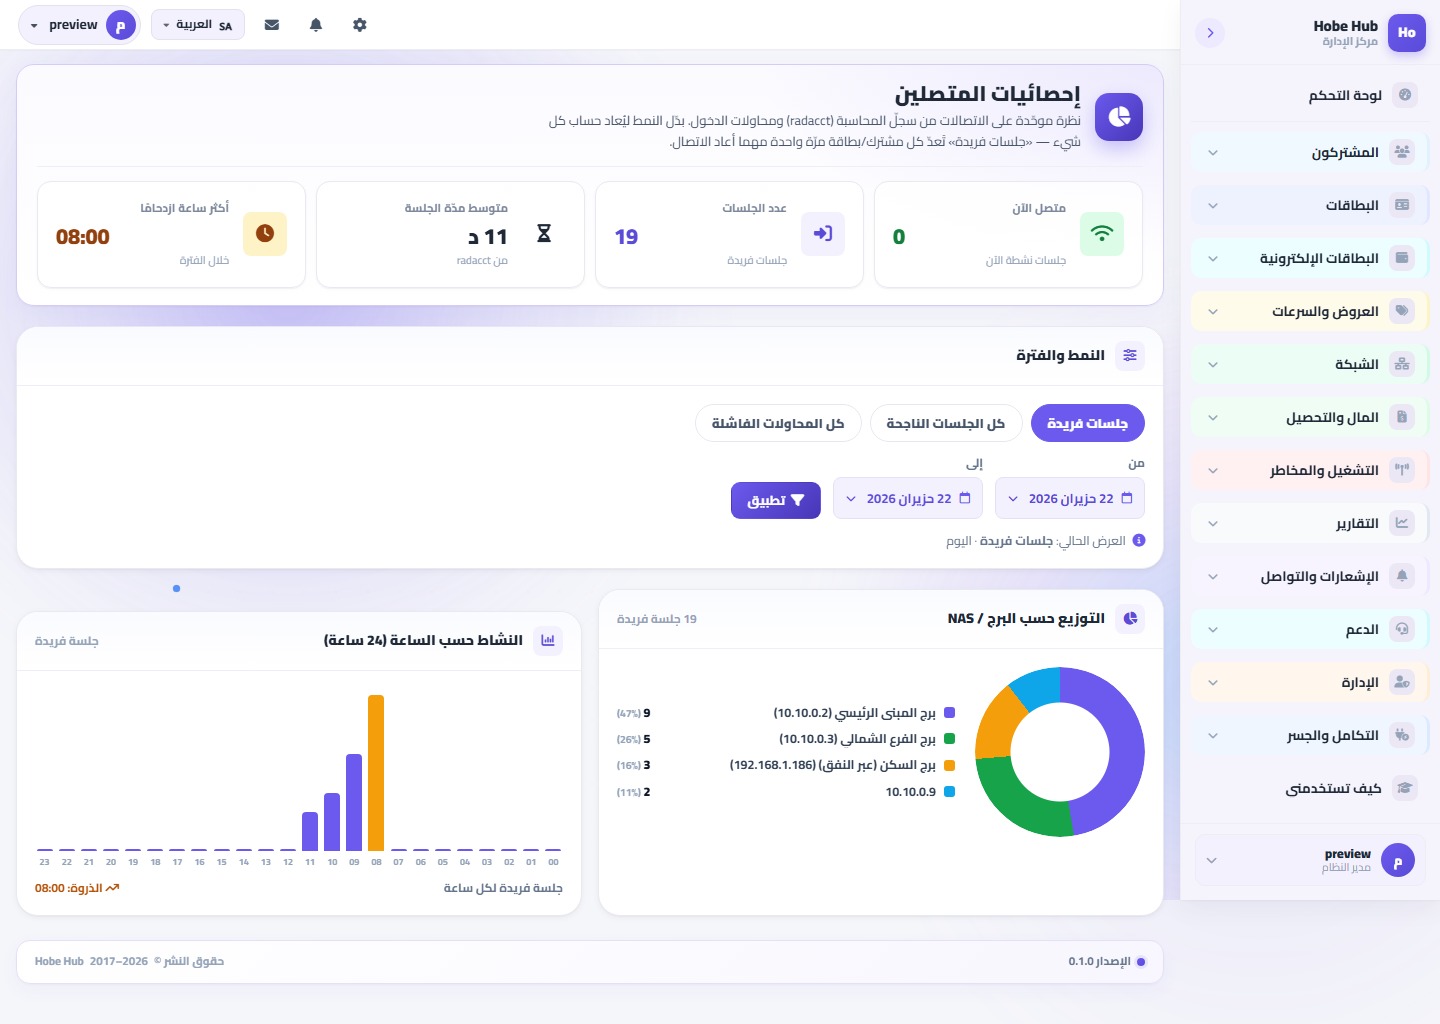
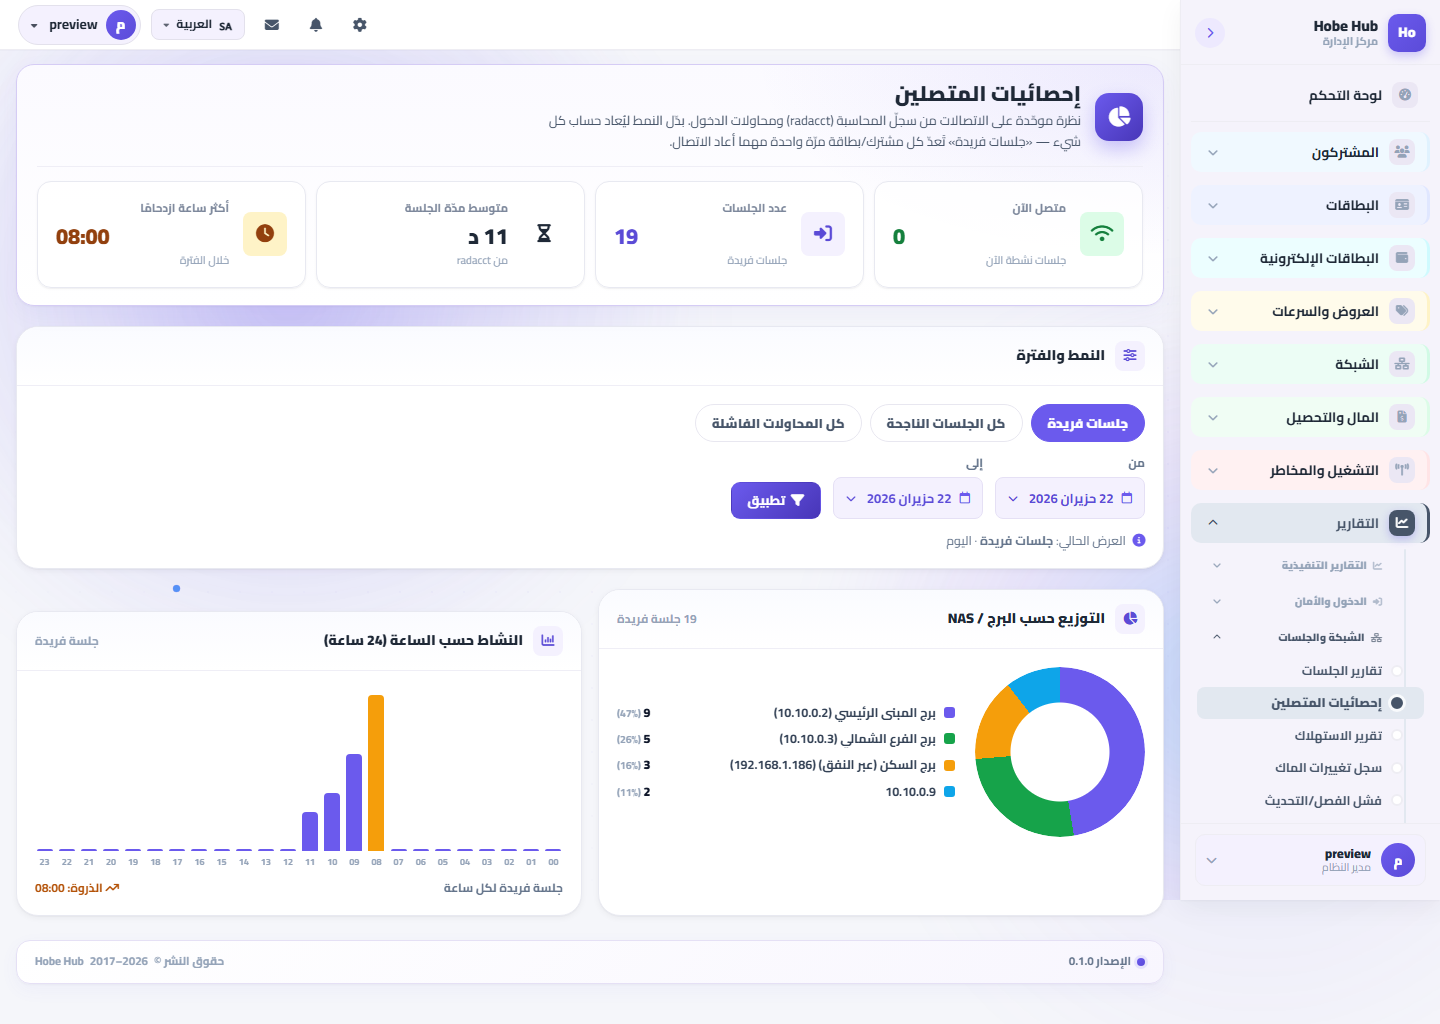
chore(sidebar): نقل «إحصائيات المتصلين» و«تقرير الاستهلاك» إلى مجموعة «التقارير»
كلاهما تقريران فينتميان لـ«التقارير» لا «المشتركون».

في app/templates/admin/_sidebar.html:
• أُزيل connected_stats و rep_subscriber_consumption من _eps_subs (صلاحيات
  مجموعة المشتركين) وأُضيفا إلى _eps_reports (صلاحيات التقارير) فيبقى
  ظهور/طيّ كل قسم صحيحًا ولا يصير أيٌّ منهما فارغًا.
• نُقل سطرا sub_item إلى عائلة «الشبكة والجلسات» الفرعية ضمن التقارير
  (بجوار «تقارير الجلسات»).
• أُضيف m_reports_connected_stats (مطابقة /connected-stats) وأُدرج هو
  وm_subscriber_usage في sec_reports_active (تفعيل القسم) وfam_net_active
  (فتح العائلة تلقائيًا) فيعمل التظليل النشط على صفحتيهما.

اختبارات: حُدّث test_sidebar (صار يتحقّق أنهما في _eps_reports لا _eps_subs)
+ render-testان: الرابطان يُرسَمان تحت قسم «التقارير» لا «المشتركون» مع
is-active على صفحة كلٍّ (super-admin). 24 تخضرّ. معاينة سطح المكتب +
تكبير الشريط الجانبي في preview/connected_stats.

Changed region(s): [[0.8125, 0.4688, 1.0, 0.8125]]

diff --git a/app/templates/admin/_sidebar.html b/app/templates/admin/_sidebar.html
@@ -311,6 +311,7 @@
 {%- set m_reports_distributors = (path == url_for('radius.reports_distributors')) -%}
 {%- set m_reports_archive = (path == url_for('radius.reports_archive')) -%}
 {%- set m_reports_sessions = (path == url_for('radius.rep_sessions')) -%}
+{%- set m_reports_connected_stats = (endpoint_exists is defined and endpoint_exists('radius.connected_stats') and ('/connected-stats' in path)) -%}
 {%- set m_reports_failed_logins = (path == url_for('radius.rep_failed_logins')) -%}
 {%- set m_reports_coa_failures = (path == url_for('radius.rep_coa_failures')) -%}
 {%- set m_reports_api_messages = (path == url_for('radius.rep_api_messages')) -%}
@@ -371,7 +372,8 @@
                                or m_reports_login_states or m_reports_login_status or m_reports_manager_login
                                or m_reports_mac_history or m_reports_profile_changes or m_reports_manager_events
                                or m_reports_user_events or m_reports_speed_failures or m_reports_used_cards
-                               or m_reports_balance_moves or m_reports_cash_tx -%}
+                               or m_reports_balance_moves or m_reports_cash_tx
+                               or m_reports_connected_stats or m_subscriber_usage -%}
 {%- set sec_support_active  = m_tickets or m_services or m_customer_portals -%}
 {%- set sec_admin_active    = m_admins or m_admin_profile or m_admin_pricing or m_distributors or m_roles or m_recycle or m_backups
                                 or m_settings or m_tenants
@@ -421,7 +423,7 @@
     </a>
 
     {# ───────── المشتركون ───────── #}
-    {%- set _eps_subs = ['subscribers_overview','subscribers_list','users_new','subscriber_groups_list','online_list','connected_stats','rep_subscriber_consumption','rep_login_states_subscribers'] -%}
+    {%- set _eps_subs = ['subscribers_overview','subscribers_list','users_new','subscriber_groups_list','online_list','rep_login_states_subscribers'] -%}
     {% if section_can(_eps_subs)|trim %}
     <div class="hb-side-section{% if sec_subs_active %} is-open has-active{% endif %}"
          data-hb-section="subscribers" data-hb-tone="sky">
@@ -437,8 +439,6 @@
         {{ sub_item('radius.users_new',   _('إضافة مشترك'),     m_users_new) }}
         {{ sub_item('radius.subscriber_groups_list', _('مجموعات المشتركين'), m_subscriber_groups) }}
         {{ sub_item('radius.online_list', _('المشتركون المتصلون'), m_online_users) }}
-        {{ sub_item('radius.connected_stats', _('إحصائيات المتصلين'), '/connected-stats' in path) }}
-        {{ sub_item('radius.rep_subscriber_consumption', _('تقرير الاستهلاك'), m_subscriber_usage) }}
       </div></div>
     </div>
     {% elif _ui_mode == 'freeze' %}{{ frozen_section(_('المشتركون'), 'users') }}{% endif %}
@@ -757,7 +757,7 @@
     {# ───────── التقارير ─────────
        كل بنود القسم محروسة خادميًا بـ reports.view (و finance_reports
        بـ reports.finance) — perm_for_endpoint يحلّها من _PERM_GUARDED. #}
-    {%- set _eps_reports = ['reports_home','finance_reports'] -%}
+    {%- set _eps_reports = ['reports_home','finance_reports','connected_stats','rep_subscriber_consumption'] -%}
     {% if section_can(_eps_reports)|trim %}
     <div class="hb-side-section{% if sec_reports_active %} is-open has-active{% endif %}"
          data-hb-section="reports" data-hb-tone="slate">
@@ -782,7 +782,8 @@
         {%- set fam_auth_active = m_reports_login_states or m_reports_failed_logins
                                     or m_reports_login_status or m_reports_manager_login -%}
         {%- set fam_net_active  = m_reports_sessions or m_reports_mac_history
-                                    or m_reports_coa_failures or m_reports_speed_failures -%}
+                                    or m_reports_coa_failures or m_reports_speed_failures
+                                    or m_reports_connected_stats or m_subscriber_usage -%}
         {%- set fam_act_active  = m_reports_manager_events or m_reports_user_events
                                     or m_reports_profile_changes or m_reports_api_messages -%}
         {%- set fam_fin_active  = m_reports_used_cards or m_reports_cash_tx
@@ -832,6 +833,8 @@
           </button>
           <div class="hb-side-subgroup-body"><div class="hb-side-subgroup-body-inner">
             {{ sub_item('radius.rep_sessions',       _('تقارير الجلسات'),     m_reports_sessions) }}
+            {{ sub_item('radius.connected_stats',    _('إحصائيات المتصلين'),  m_reports_connected_stats) }}
+            {{ sub_item('radius.rep_subscriber_consumption', _('تقرير الاستهلاك'), m_subscriber_usage) }}
             {{ sub_item('radius.rep_mac_history',    _('سجل تغييرات الماك'),  m_reports_mac_history) }}
             {{ sub_item('radius.rep_coa_failures',   _('فشل الفصل/التحديث'),  m_reports_coa_failures) }}
             {{ sub_item('radius.rep_speed_failures', _('فشل تحديث السرعة'),   m_reports_speed_failures) }}

diff --git a/tests/test_connected_stats.py b/tests/test_connected_stats.py
@@ -200,20 +200,65 @@ def test_default_mode_is_unique(app):
         assert cs.stats(1)["mode"] == "unique"
 
 
-def test_sidebar_link_present_in_subscribers_group(app):
+def test_sidebar_link_moved_to_reports_group(app):
+    """نُقل «إحصائيات المتصلين» و«تقرير الاستهلاك» من «المشتركون» إلى «التقارير»:
+    البندان يُصرَّحان ضمن _eps_reports لا _eps_subs، والروابط تُرسَم تحت التقارير."""
     import os.path as p
     here = p.dirname(p.dirname(__file__))
     sb = open(p.join(here, "app", "templates", "admin", "_sidebar.html"), encoding="utf-8").read()
-    # الرابط موجود + ضمن قائمة صلاحيات مجموعة المشتركين (_eps_subs).
-    assert "radius.connected_stats" in sb
-    assert "'connected_stats'" in sb
-    subs_line = next(ln for ln in sb.splitlines() if "_eps_subs" in ln)
-    assert "connected_stats" in subs_line
+    lines = sb.splitlines()
+    subs_line = next(ln for ln in lines if "_eps_subs" in ln)
+    reports_line = next(ln for ln in lines if "_eps_reports" in ln)
+    # لم يعودا في قائمة صلاحيات المشتركين
+    assert "connected_stats" not in subs_line
+    assert "rep_subscriber_consumption" not in subs_line
+    # صارا في قائمة صلاحيات التقارير
+    assert "connected_stats" in reports_line
+    assert "rep_subscriber_consumption" in reports_line
+    # الرابطان ما زالا مرسومين (sub_item)
+    assert "sub_item('radius.connected_stats'" in sb
+    assert "sub_item('radius.rep_subscriber_consumption'" in sb
 
 
 def test_endpoint_registered(app):
     assert "radius.connected_stats" in app.view_functions
     assert "radius.connected_stats_json" in app.view_functions
+
+
+def _reports_sidebar_block(html: str) -> str:
+    """يقتطع كتلة قسم «التقارير» من الشريط الجانبي (حتى القسم الذي يليه)."""
+    i_reports = html.index('data-hb-section="reports"')
+    i_next = html.index('data-hb-section="', i_reports + 20)
+    return html[i_reports:i_next]
+
+
+def _subs_sidebar_block(html: str) -> str:
+    i_subs = html.index('data-hb-section="subscribers"')
+    i_reports = html.index('data-hb-section="reports"')
+    return html[i_subs:i_reports]
+
+
+def _active_link_present(html: str, href: str) -> bool:
+    """البند النشط في الشريط: class تحوي is-active ثم href (يتسامح مع أي فراغ/سطر)."""
+    import re
+    return bool(re.search(
+        r'hb-side-subitem is-active"\s+href="' + re.escape(href) + '"', html))
+
+
+def test_connected_stats_link_renders_under_reports_not_subscribers(app):
+    html = _client(app).get("/admin/radius/connected-stats").get_data(as_text=True)
+    # تحت «التقارير» (كتلة الشريط)، وليس تحت «المشتركون».
+    assert 'href="/admin/radius/connected-stats"' in _reports_sidebar_block(html)
+    assert '/connected-stats"' not in _subs_sidebar_block(html)
+    # التظليل النشط على البند في صفحته.
+    assert _active_link_present(html, "/admin/radius/connected-stats")
+
+
+def test_usage_report_link_renders_under_reports_not_subscribers(app):
+    html = _client(app).get("/admin/radius/reports/subscriber-consumption").get_data(as_text=True)
+    assert 'href="/admin/radius/reports/subscriber-consumption"' in _reports_sidebar_block(html)
+    assert '/reports/subscriber-consumption"' not in _subs_sidebar_block(html)
+    assert _active_link_present(html, "/admin/radius/reports/subscriber-consumption")
 
 
 # ════════════ (7) أداة التسمية المشتركة nas_names ════════════
